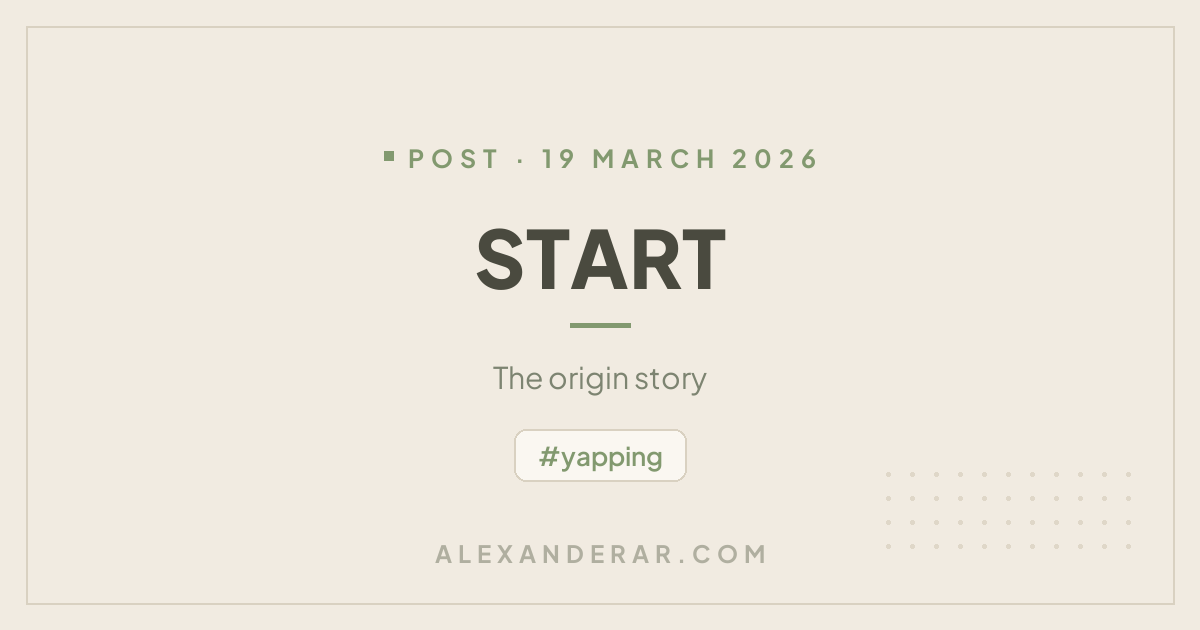
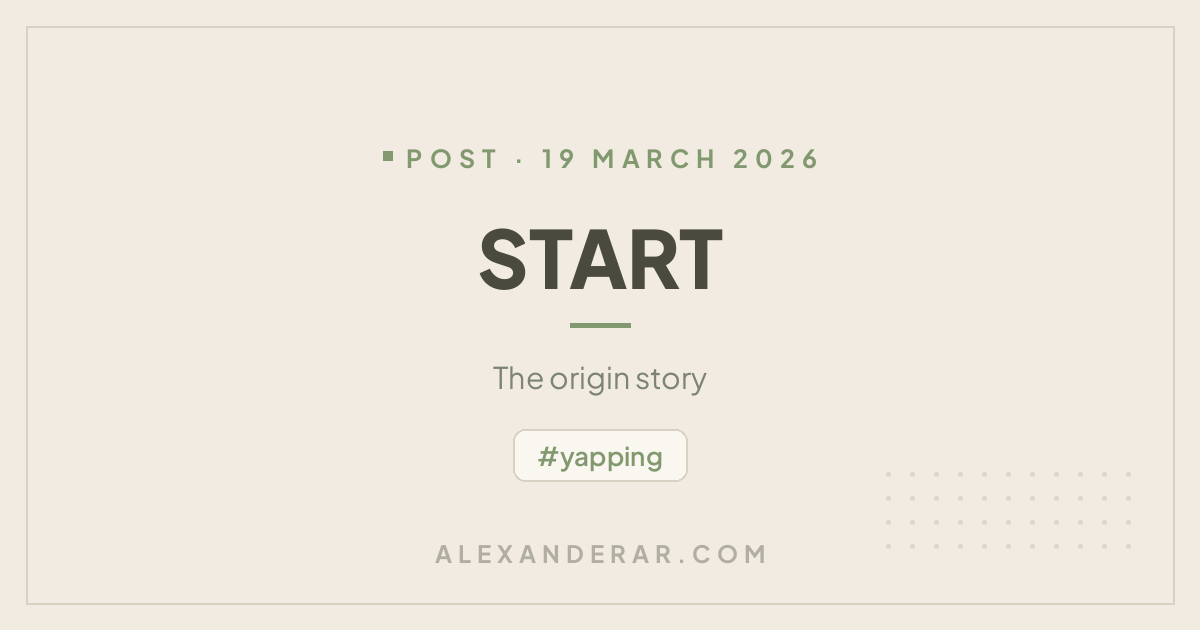
docs(projects): update portofolio alex entry for tanstack rewrite
Rewrite the portfolio project page to describe the current TanStack
Start build instead of the old Astro/Svelte stack: new frontmatter
(tech list, repo link) and full markdown body covering the content
pipeline, GitHub integration, OG generation, and CI/CD deploy.

Also commit the regenerated OG cards (script changes from 4928591 were
never synced back into the repo) and bump OG_IMAGE_VERSION to 261010 so
crawlers re-fetch the new previews.

Amp-Thread-ID: https://ampcode.com/threads/T-01a10003-01f7-708f-845f-fc405ab7fa1c

diff --git a/src/lib/seo.ts b/src/lib/seo.ts
@@ -7,7 +7,7 @@ export const SITE_URL = 'https://alexanderar.com'
  * (Discord, WhatsApp, iMessage…) cache aggressively by URL, so a version query
  * is the reliable way to make them re-fetch. YYMMDD of the last visual change.
  */
-export const OG_IMAGE_VERSION = '261009'
+export const OG_IMAGE_VERSION = '261010'
 
 function ogImageUrl(ogImage?: string) {
   return `${SITE_URL}${ogImage ?? '/og-image.png'}?v=${OG_IMAGE_VERSION}`

diff --git a/src/content/projects/portofolio-alex.md b/src/content/projects/portofolio-alex.md
@@ -1,70 +1,77 @@
 ---
 title: "Portofolio Alex"
 year: "2026"
-description: "This is My website Personal Portofolio"
-fullDescription: "I using Astro, Tailwindcss, Svelte, Bun for make Website Portofolio"
+description: "My personal portfolio website — rebuilt from scratch with TanStack Start"
+fullDescription: "Full rewrite of my portfolio using TanStack Start, React 19, Tailwind CSS 4, and Bun — deployed to Cloudflare Workers via CI/CD"
 image: "/images/PortoAlx.webp"
-projectLink: "http://alexanderar.com"
-repoLink: "https://github.com/AlexanderDev2004/alexander-portoV1.0"
+projectLink: "https://alexanderar.com"
+repoLink: "https://github.com/AlexanderDev2004/alexanderar.com"
 technologies:
-  - name: "Astro"
-    icon: "simple-icons:astro"
-    docLink: "https://astro.build/"
-  - name: "Svelte"
-    icon: "simple-icons:svelte"
-    docLink: "https://svelte.dev/"
+  - name: "TanStack Start"
+    icon: "simple-icons:tanstack"
+    docLink: "https://tanstack.com/start"
+  - name: "React"
+    icon: "simple-icons:react"
+    docLink: "https://react.dev/"
+  - name: "Tailwind CSS"
+    icon: "simple-icons:tailwindcss"
+    docLink: "https://tailwindcss.com/"
   - name: "Bun"
     icon: "simple-icons:bun"
     docLink: "https://bun.com/"
-  - name: "Tailwind CSS"
-    icon: "mdi:tailwind"
-    docLink: "https://tailwindcss.com/"
+  - name: "TypeScript"
+    icon: "simple-icons:typescript"
+    docLink: "https://www.typescriptlang.org/"
+  - name: "Cloudflare Workers"
+    icon: "simple-icons:cloudflare"
+    docLink: "https://workers.cloudflare.com/"
 ---
 
 ## Project Summary
 
-This personal portfolio is a total overhaul of my old website, built using Astro, Svelte, Tailwind CSS, and Bun.
-I designed it to be fast, clean, and easy to navigate, so visitors can quickly get a feel for my projects, skills, and journey as a software developer.
+This is my personal portfolio, fully rewritten from the ground up. The previous version was built with Astro, Svelte, and Tailwind; this one moves the whole site to **TanStack Start with React 19 and TypeScript**, keeps a markdown-driven content flow, and deploys automatically to **Cloudflare Workers** on every push. The visual language stayed in the same family — a warm beige background with a matte sage palette — but everything under the hood is new.
 
 ## The Problem
-So, my old personal website actually worked. It loaded. My name was on it. But every time I sent the link to someone, there was this little voice in the back of my head saying, "this doesn't represent my style at all." Eventually, I just thought, "screw it, I might as well just make a new one." So, I built this. And you can see the old version here: https://alexanderar.vercel.app/
+
+The old portfolio (Astro + Svelte) worked fine as a static site, but I kept running into its ceiling: I wanted live GitHub data on the home page, per-route typed metadata, and a deployment pipeline I didn't have to babysit. Mixing interactive islands into Astro also made every new feature feel bolted on. So instead of patching it, I treated it as a rewrite.
 
 ## The Solution
-I rebuilt my personal website from scratch using Astro, Svelte, Tailwind CSS, and Bun, focusing on creating something that truly felt like me while still looking professional. The goal wasn't to chase trends, but to make it recognizable and authentic.
+
+I rebuilt the entire site on TanStack Start with a file-based, type-safe router and React 19. Content stayed in Markdown (projects, blogs, security reports) but now flows through a small typed content pipeline instead of framework-specific collections. GitHub activity and merged pull requests are fetched at build time into a snapshot and silently refreshed on the client with TanStack Query — instant first paint, fresh data after hydration. Every push to `master` builds and deploys to Cloudflare Workers through GitHub Actions.
 
 ## Key Features
 
-### Content Management
-- Structured content with Astro Content Collections for projects and blogs.
-- Markdown-based writing flow for easier updates without touching component logic.
-- Consistent metadata (title, year, links, tags, and technologies) to keep entries organized.
+### Framework & Rendering
+- TanStack Start with file-based routing and a generated, fully type-safe route tree.
+- Static prerendering for every content page, so first paint is instant.
+- Per-route SEO metadata through typed `head()` definitions (canonical, Open Graph, Twitter cards).
+
+### Content Pipeline
+- Markdown sources for projects, blogs, and security reports with consistent frontmatter.
+- A small typed loader that parses frontmatter into `Project` / `BlogPost` objects at build time.
+- Slug normalization kept consistent between URLs, content lookups, and OG image filenames.
+
+### Live GitHub Integration
+- Contributions heatmap (365 days) rendered as a lightweight CSS grid.
+- Merged pull requests grouped per repository, with additions/deletions and merge dates.
+- Build-time snapshot + TanStack Query client refresh: fast by default, fresh when data changes.
+
+### OG Image Generation
+- Build-time Python (Pillow) script that renders a 1200×630 card for the home page and every blog, project, and report.
+- Cards use the site's own palette and fonts, so link previews match the site.
+- Versioned image URLs (`?v=YYMMDD`) so crawlers re-fetch after redesigns.
 
 ### Design & UX
-- Responsive layout designed for both desktop and mobile reading.
-- Clean visual hierarchy to highlight key sections, projects, and personal story.
-- Clear interaction cues, including styled links and readable typography.
+- Matte sage/beige design system with flat hairline lists instead of heavy card boxes.
+- Collapsible sections (work experience, open source contributions) with keyboard support.
+- A looping "Hideout" pattern background revealed inside blurred circle masks, with a subtle mouse parallax — fully disabled under `prefers-reduced-motion`.
+- Responsive down to small phones, including responsive embeds for YouTube/video/audio inside articles.
 
-### Technical Features
-- Static site generation for fast load times and reliable performance.
-- Reusable Svelte components to keep UI patterns consistent across pages.
-- SEO-friendly metadata setup (title, description, canonical, and Open Graph tags).
+### Deployment & Ops
+- GitHub Actions CI/CD: install → fetch GitHub data → generate OG images → typecheck → build → `wrangler deploy`.
+- Hosted on Cloudflare Workers with a custom domain (alexanderar.com).
 
-### Technical Stack
-- Astro for routing, content rendering, and static output.
-- Svelte for interactive UI components.
-- Tailwind CSS for utility-first styling and rapid iteration.
-- Bun for dependency management and development workflow.
-- TypeScript for stronger typing and safer refactoring.
-
-### Design Philosophy
-- Prioritize clarity before complexity.
-- Keep the interface personal, intentional, and easy to explore.
-- Balance modern aesthetics with performance and maintainability.
-
-### Challenges & Learnings
-- Learned to balance visual polish with performance and readability.
-- Improved my approach to structuring scalable, content-driven pages.
-- Gained practical experience combining Astro and Svelte in one cohesive project.
-
-
-
+## Challenges & Learnings
+- Migrating from Astro + Svelte to TanStack Start taught me how far you can push a type-safe router — routes, params, and loaders are all checked at compile time.
+- Learned to keep hydration deterministic: randomized UI (like the background mask) is generated from a seeded PRNG so server and client agree.
+- Got practical experience with edge deployment: static prerender + Workers assets, with CI doing the heavy lifting on every push.
